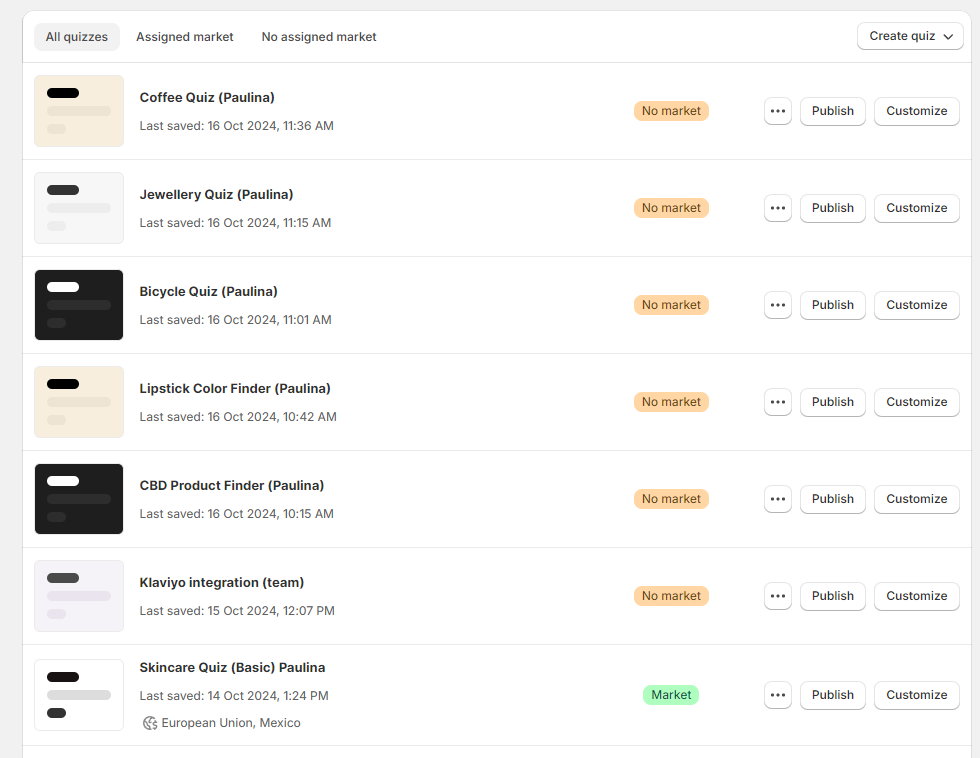
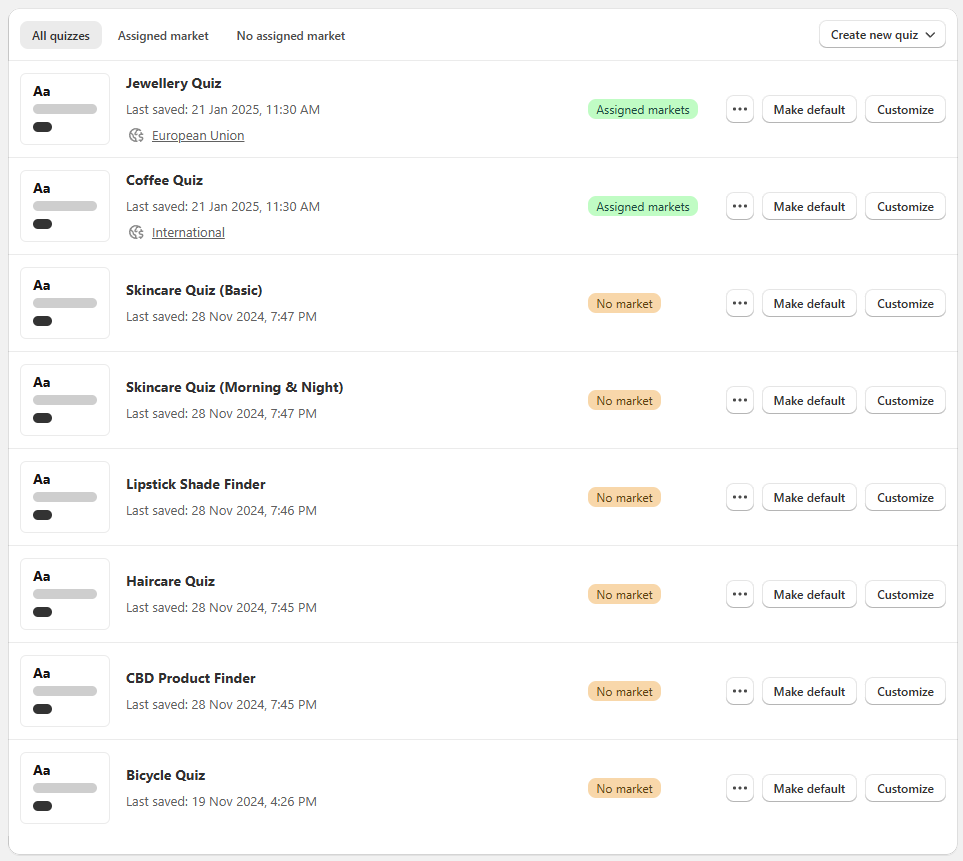
updated the app reference dashbaord for Shopify V2

diff --git a/docs/reference/dashboard.md b/docs/reference/dashboard.md
@@ -234,13 +234,13 @@ On the dashboard, you'll find all the quizzes that you create.
     - **Quiz Settings** - Opens the [Quiz Settings](https://docs.revenuehunt.com/reference/quiz-builder/#quiz-settings) for that quiz.
     - **Integrations** - Opens the [Integrations](https://docs.revenuehunt.com/reference/quiz-builder/#share) page for that quiz.
     - **Responses** - Opens the [Responses](https://docs.revenuehunt.com/reference/quiz-builder/#responses) page where it's possible to view, downalod and troubleshoot response for that quiz.
-    - **Analytics** - Opens the [Metrics](https://docs.revenuehunt.com/reference/quiz-builder/#analytics) page where all the quiz analytics are stored, including quiz starts, completions and revenue.
+    - **Analytics** - Opens the [Analytics](https://docs.revenuehunt.com/reference/quiz-builder/#analytics) page where all the quiz analytics are stored, including quiz starts, completions and revenue.
     - **Copy quiz ID:** - Copies the current quiz ID to clipboard.
     - **Rename** - Allows you to rename the current quiz.
     - **Duplicate** - Create a copy of this quiz on the dashboard.
     - **Remove** - Deletes the current quiz.
 
-    **Publish** - Sets the quiz as current quiz and makes it the default quiz for the main show market and Shop app channel. After clickign the following message will appear:
+    **Make default** - Sets the quiz as current quiz and makes it the default quiz for the main show market and Shop app channel. After clickign the following message will appear:
 
     ![manual_shopifyV2_allquizzes_publish](/images/manual_shopifyV2_allquizzes_publish.png)
 
@@ -570,7 +570,7 @@ On the dashboard, you'll find all the quizzes that you create.
 
     **From template**  - Start a new quiz by selecting a pre-made template and color scheme.
 
-    (Select from one of our quiz templates)
+    ![manual_shopifyV2_createquiz_templates](/images/manual_shopifyV2_createquiz_templates.png)
 
     Click `Select` to confirm the tempalte choice, `Cancel` to return to the Quizzes or `Continue` to select the color scheme for the new quiz.
 
